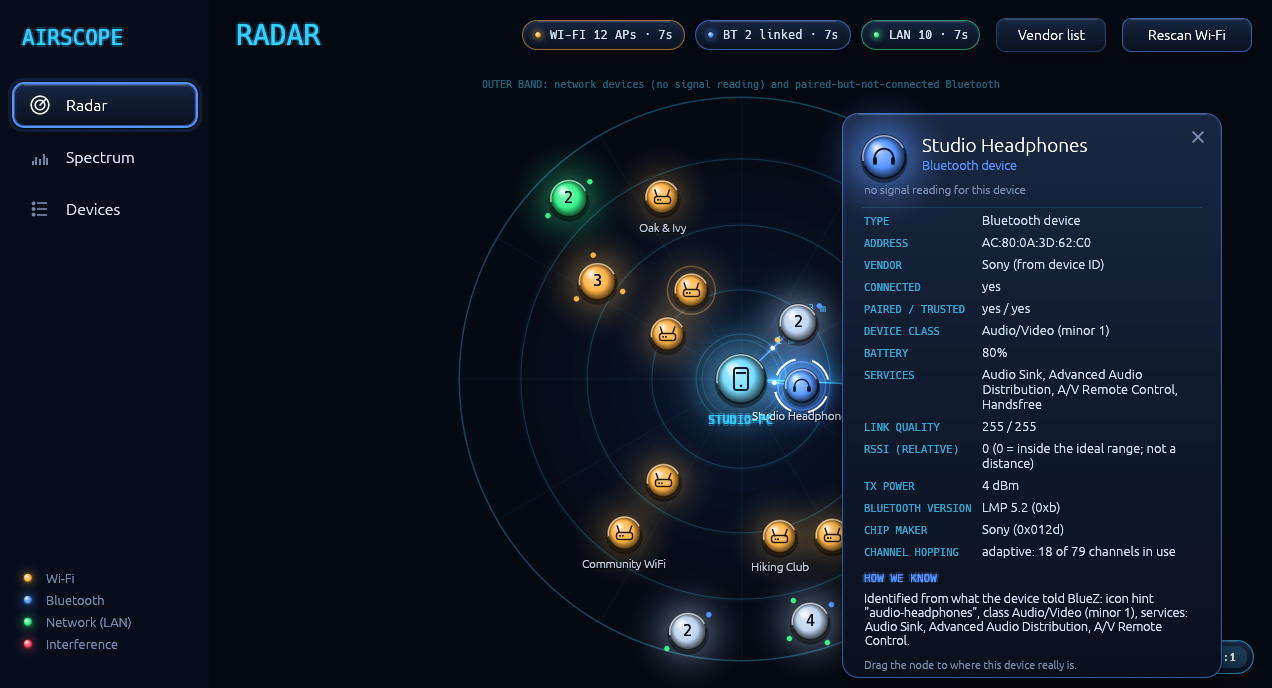
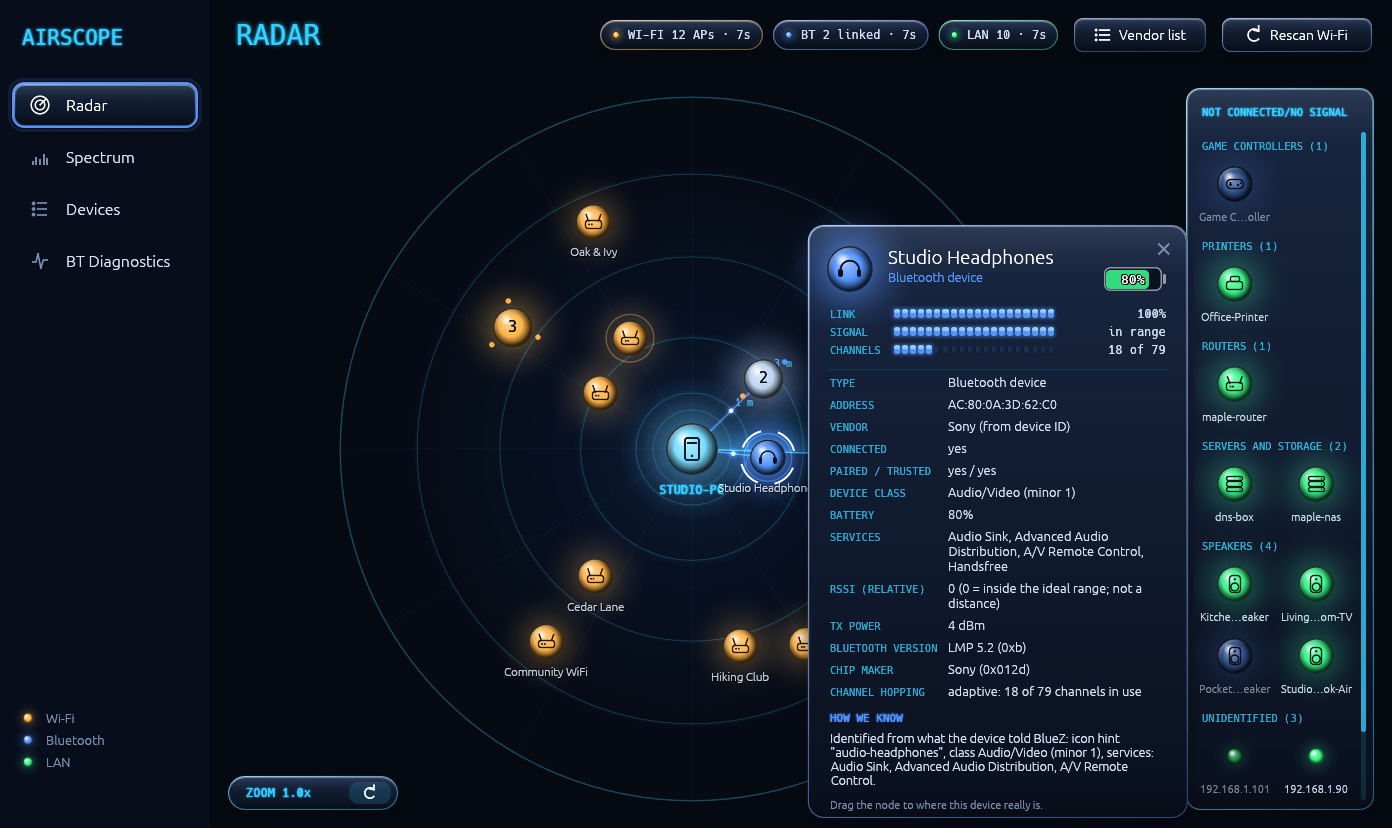
README: describe BT Diagnostics and the current screens; new screenshots from an invented capture (scripts/make-demo-capture.py)

diff --git a/scripts/make-demo-capture.py b/scripts/make-demo-capture.py
@@ -1,0 +1,83 @@
+#!/usr/bin/env python3
+"""Writes an invented Bluetooth capture (btmon "monitor" btsnoop format) for the README screenshots.
+Usage: make-demo-capture.py OUT.snoop
+Two devices from the app's demo data (Studio Headphones, Desk Keyboard) over 2 hours, with two bursts of
+connection-timeout drops, some slow sniff exits and a few normal disconnects. Nothing here is real."""
+import random, struct, sys
+
+random.seed(7)
+EPOCH = 0x00DCDDB30F2F8000          # btsnoop timestamps count microseconds from year 0
+START = 1794168000                  # a Tuesday evening, 2026-11-09 18:40 UTC (invented)
+DEV = {"AC:80:0A:3D:62:C0": 0x0041, "E4:11:5B:72:08:4D": 0x0042}   # MAC -> first handle
+
+def wire(mac):                      # the address as it appears in HCI events: least significant byte first
+    return bytes(int(x, 16) for x in reversed(mac.split(":")))
+
+out = bytearray(b"btsnoop\0" + struct.pack(">II", 1, 2001))
+def rec(t, op, data):
+    out.extend(struct.pack(">IIIIq", len(data), len(data), op, 0, int((START + t) * 1e6) + EPOCH) + data)
+
+def event(t, code, p): rec(t, 3, bytes([code, len(p)]) + p)
+def connect(t, mac, h): event(t, 0x03, bytes([0]) + struct.pack("<H", h) + wire(mac) + bytes([1, 0]))
+def disconnect(t, h, reason): event(t, 0x05, bytes([0]) + struct.pack("<H", h) + bytes([reason]))
+def acl(t, h, tx): rec(t, 4 if tx else 5, struct.pack("<HHH", h, 8, 4) + b"\0" * 8)
+def sniff_exit(t, h, answered_after):
+    rec(t, 2, struct.pack("<HBH", 0x0804, 2, h))
+    if answered_after is not None:
+        event(t + answered_after, 0x14, bytes([0]) + struct.pack("<H", h) + bytes([0]) + struct.pack("<H", 0))
+
+handle = dict(DEV)
+alive = {m: True for m in DEV}
+for m, h in DEV.items():
+    connect(0.2, m, h)
+
+# drops: (time s, who, reason, quiet seconds before it)
+drops = [(1630, "both", 0x08, 22), (1674, "both", 0x08, 19), (1732, "kb", 0x08, 27), (1790, "both", 0x08, 20),
+         (3490, "hp", 0x13, 1), (4310, "both", 0x08, 21), (4336, "both", 0x08, 18), (4401, "both", 0x08, 24),
+         (4466, "kb", 0x08, 17), (5120, "both", 0x08, 23), (6350, "hp", 0x15, 1), (6900, "kb", 0x08, 20)]
+quiet = {}   # (mac, t0, t1): ACL stops between t0 and t1
+who = {"hp": ["AC:80:0A:3D:62:C0"], "kb": ["E4:11:5B:72:08:4D"], "both": list(DEV)}
+for t, w, reason, q in drops:
+    for m in who[w]:
+        quiet[(m, t - q, t)] = reason
+
+# each drop gives the device a new connection handle, so traffic must use the handle that is current at that moment
+drop_times = {m: sorted(t + i * 0.12 for (t, w, r, q) in drops for i, mm in enumerate(who[w]) if mm == m) for m in DEV}
+def handle_at(m, t):
+    return DEV[m] + 2 * sum(1 for d in drop_times[m] if d <= t)
+def link_up(m, t):                  # not in the second between a drop and the reconnect
+    return not any(d <= t < d + 1.1 for d in drop_times[m])
+
+t = 1.0
+while t < 7200:
+    for m in DEV:
+        if link_up(m, t) and not any(m == mm and a <= t < b for (mm, a, b) in quiet):
+            if random.random() < 0.8:
+                acl(t + random.random() * 0.3, handle_at(m, t), True)
+            acl(t + 0.4 + random.random() * 0.3, handle_at(m, t), False)
+    t += random.uniform(1.0, 2.2)
+
+for (t, w, reason, q) in drops:
+    for i, m in enumerate(who[w]):
+        td = t + i * 0.12
+        if reason == 0x08 and m.startswith("E4") and q >= 19:
+            sniff_exit(td - q + 8, handle[m], random.choice([None, 4.5, 9.0]))   # exit that the controller answers late, or never
+        disconnect(td, handle[m], reason)
+        handle[m] += 2
+        connect(td + 1.1, m, handle[m])
+
+# one drop of a link that was already up when the capture began, and a normal idle disconnect
+rec(0.1, 3, bytes([5, 4, 0, 0x30, 0x00, 0x08]))
+
+# records must be in time order
+body = out[16:]
+recs, o = [], 0
+while o < len(body):
+    n = struct.unpack(">I", body[o + 4:o + 8])[0]
+    recs.append((struct.unpack(">q", body[o + 16:o + 24])[0], bytes(body[o:o + 24 + n])))
+    o += 24 + n
+recs.sort(key=lambda r: r[0])
+with open(sys.argv[1], "wb") as f:
+    f.write(bytes(out[:16]))
+    for _, r in recs:
+        f.write(r)

diff --git a/src/main.rs b/src/main.rs
@@ -386,7 +386,7 @@ impl App {
             show: [true; 3],
             scope: 0,
             hide_unnamed: false,
-            collapsed: HashSet::from([0, 1, 2, 3, 4]), // every group starts closed
+            collapsed: if std::env::var("AIRSCOPE_EXPAND").is_ok() { HashSet::new() } else { HashSet::from([0, 1, 2, 3, 4]) }, // every group starts closed (AIRSCOPE_EXPAND opens them: debug aid for screenshots)
             anchor: pos2(700.0, 400.0),
             tip_want: None,
             tip_last: None,

diff --git a/README.md b/README.md
@@ -1,8 +1,9 @@
 # Airscope
 
-**See the wireless world around your PC as a radar.** Airscope shows the Wi-Fi networks, Bluetooth devices and
-LAN devices near you, how crowded the 2.4 GHz band is, and which Bluetooth channels are being steered around
-the noise. It is a native Linux app (Rust, egui) that runs on Wayland or X11.
+**See the wireless world around your PC as a radar, and find out why your Bluetooth keeps dropping.** Airscope
+shows the Wi-Fi networks, Bluetooth devices and LAN devices near you, how crowded the 2.4 GHz band is, which
+Bluetooth channels are being steered around the noise, and, from a recording of the Bluetooth traffic, when each
+link dropped and why. It is a native Linux app (Rust, egui) that runs on Wayland or X11.
 
 [![Buy me a coffee](https://img.shields.io/badge/Buy%20me%20a%20coffee-teknocat-ffdd00?logo=buymeacoffee&logoColor=black)](https://buymeacoffee.com/teknocat)
 &nbsp;If Airscope is useful to you, you can [buy me a coffee](https://buymeacoffee.com/teknocat).
@@ -20,20 +21,28 @@ the noise. It is a native Linux app (Rust, egui) that runs on Wayland or X11.
 
 - **Radar:** every device is an orb. Distance comes from signal strength (rough, and labelled as such); a sweep
   refreshes devices as it passes them. Devices that are close together fold into a group you can click to fan
-  out. Drag any device or group to where it really is, and Airscope remembers.
-- **Spectrum:** Wi-Fi networks drawn as hills across the 2.4 GHz channels, with each connected Bluetooth
-  device's channel map underneath, so you can see whether Bluetooth is avoiding the busy channels (adaptive
-  frequency hopping) or hopping straight through them.
-- **Devices:** a searchable, filterable list of everything seen, with an info box per device explaining *how*
-  Airscope identified it.
+  out. Drag any device or group to where it really is, and Airscope remembers. Hover an orb for its name and
+  signal, click it for everything Airscope knows and *how* it knows.
+- **Spectrum:** Wi-Fi networks drawn as hills across the 2.4 GHz channels (true signal strength in dBm), with
+  each connected Bluetooth device's channel map underneath, so you can see whether Bluetooth is avoiding the
+  busy channels (adaptive frequency hopping) or hopping straight through them. A "Your network" panel shows how
+  busy the three clean channels (1, 6 and 11) are and who else is on them.
+- **Devices:** a searchable, filterable list of everything seen, split into yours and others, with an info box
+  per device.
+- **BT Diagnostics:** press **Record** to capture Bluetooth traffic (or open a capture file made with `btmon -w`),
+  then see when each link dropped and why. A summary with a timeline of the drops and a card per device, a full
+  event timeline, and a Library of your past recordings (analysed in the background, deletable). It tells
+  radio-type drops (connection timeouts) from normal ones (a device going to sleep), and shows slow answers from
+  the Bluetooth controller. Reports can be copied or saved.
 - **Vendor names** from a built-in MAC prefix list that you can update yourself (see below).
 
 | | |
 |---|---|
 | ![Device info](docs/screenshots/radar-info.png) | ![Spectrum](docs/screenshots/spectrum.png) |
-| ![Devices](docs/screenshots/devices.png) | ![Vendor list](docs/screenshots/vendor-list.png) |
+| ![Devices](docs/screenshots/devices.png) | ![BT Diagnostics](docs/screenshots/diagnostics.png) |
+| ![Timeline](docs/screenshots/timeline.png) | ![Vendor list](docs/screenshots/vendor-list.png) |
 
-*(All screenshots use the built-in demo data: invented networks and devices.)*
+*(All screenshots use the built-in demo data: invented networks, devices and a made-up Bluetooth capture.)*
 
 ## Install
 
@@ -60,6 +69,7 @@ target/release/airscope
 | Wi-Fi networks | NetworkManager (Airscope reads its cached scan results over D-Bus) |
 | Bluetooth devices | BlueZ (over D-Bus) |
 | Bluetooth link details (channel map, link quality) | A Bluetooth adapter and a connected device. These are read with read-only HCI commands, no root needed on the systems I tried |
+| Recording Bluetooth traffic (BT Diagnostics) | `btmon` (BlueZ) and polkit's `pkexec`: recording asks for your password through the desktop's own prompt. Opening an existing capture needs neither |
 | LAN devices | Nothing extra: ARP table, mDNS and a ping |
 
 Without NetworkManager the Wi-Fi part shows a message and the rest keeps working. There is deliberately no Flatpak: the app needs
@@ -73,9 +83,14 @@ the system D-Bus, raw Bluetooth sockets and the LAN, which the sandbox would hav
   pings devices the kernel hasn't talked to recently to see if they are still there.
 - By default it never triggers a Wi-Fi scan by itself (scans briefly disturb Bluetooth on chips that share an antenna).
   Press **Rescan Wi-Fi** when you want fresh results.
-- It is read-only: it doesn't change any system or adapter settings.
+- It doesn't change any system or adapter settings. The one thing that needs more rights is **Record**: it
+  starts `btmon` as root through `pkexec` (your desktop's password prompt) to read the Bluetooth traffic, for the
+  length you choose (Stop uses it again to end the recording early); nothing else runs privileged.
 - It stores a little in `~/.config/airscope/`: dragged device positions, an optional list of your own SSID
   prefixes (`mine.txt`), and an imported vendor list if you made one.
+- Recordings are kept in `~/.local/share/airscope/captures/` (one folder each, with a summary and optional
+  report). **A capture contains the addresses of nearby Bluetooth devices**, so think before sharing one; delete
+  it from the Library tab when you are done.
 
 ## Updating the vendor list
 
@@ -91,7 +106,8 @@ AIRSCOPE_DEMO=1 target/release/airscope
 ```
 
 Demo mode fills the app with invented data and ignores your real hostname and saved positions. It is what the
-screenshots above use (`scripts/demo-shots.sh` regenerates them in a headless compositor).
+screenshots above use (`scripts/demo-shots.sh` regenerates them in a headless compositor, with an invented
+Bluetooth capture from `scripts/make-demo-capture.py`).
 
 ## Honest limitations
 
@@ -101,6 +117,9 @@ screenshots above use (`scripts/demo-shots.sh` regenerates them in a headless co
 - Tested on one machine (Bazzite / KDE Plasma, Wayland, an Intel AX200). Other hardware may behave differently.
 - Only tested with a single Bluetooth adapter. If you use more than one (for example a USB Bluetooth dongle alongside a built-in one), the link details may not cover the extra adapter. Please open an issue if you want that supported.
 - Wireless dongles with their own proprietary radios (Logitech Unifying, Steam Controller and similar) are not shown.
+- BT Diagnostics reports what the capture shows (when and how links ended); it can point at a likely cause but
+  it can't prove one. It was built while chasing intermittent drops on one machine, so treat the reasons it
+  highlights as hints. Recording captures Bluetooth traffic only.
 
 ## Building a release
 
